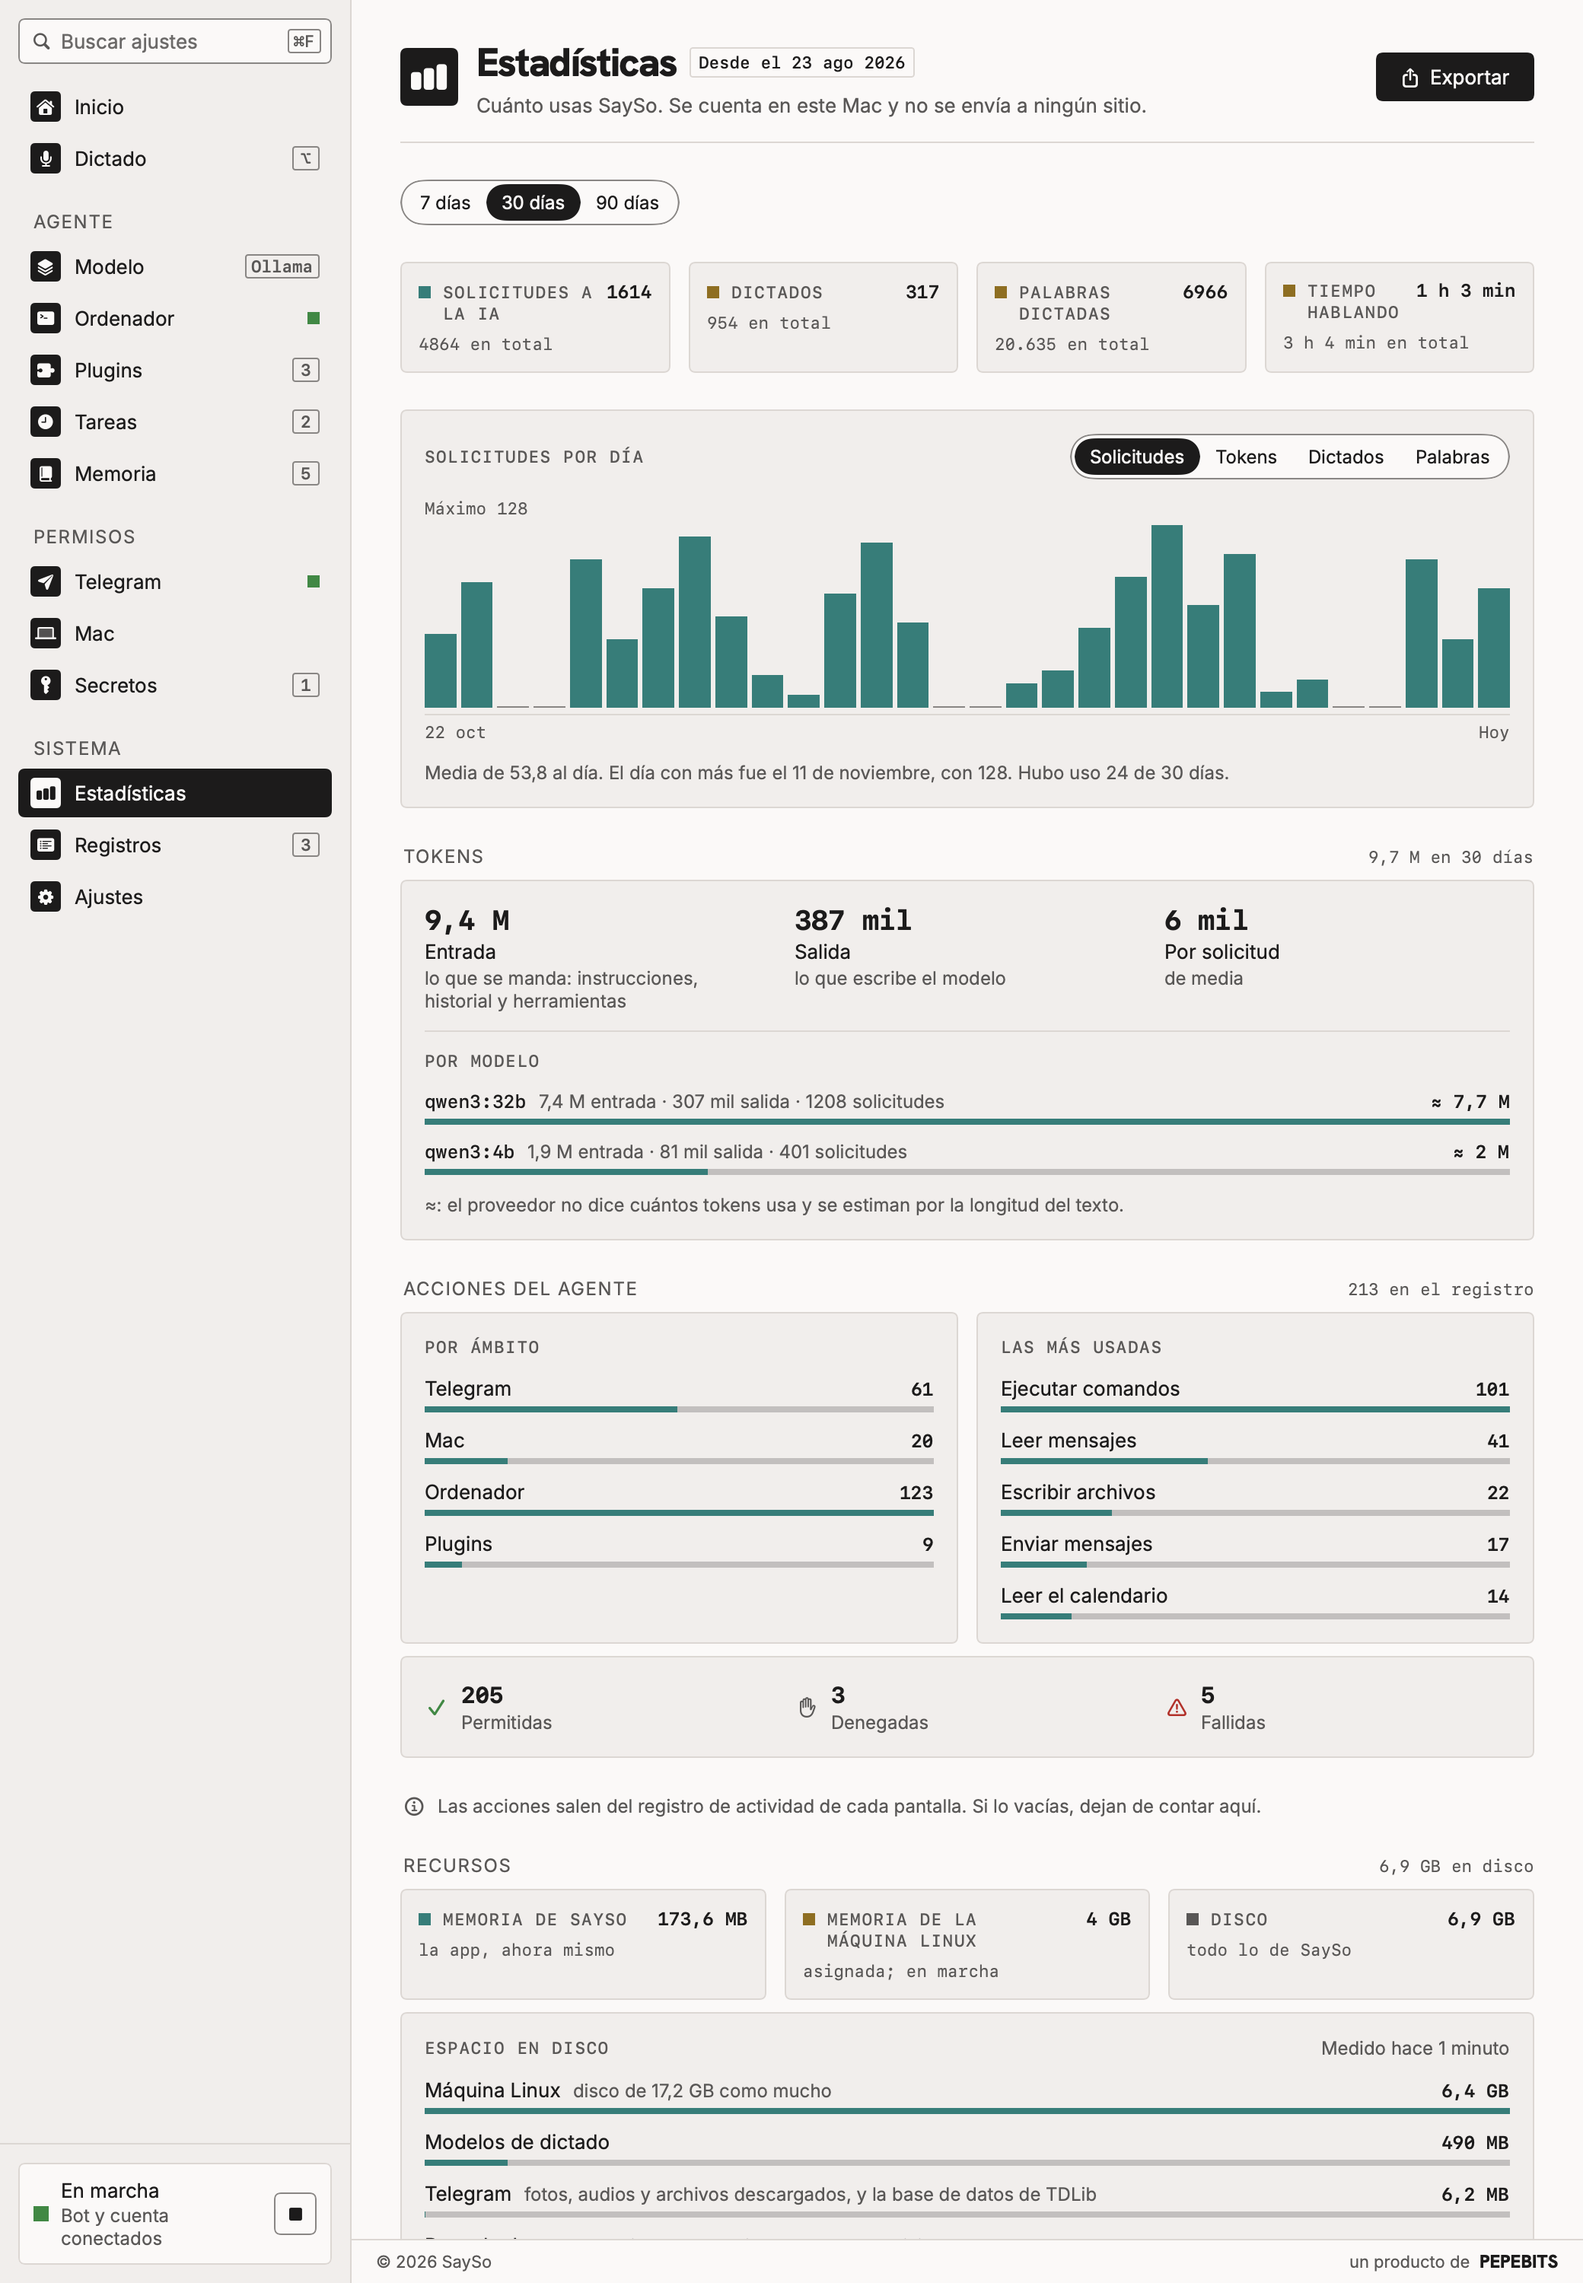
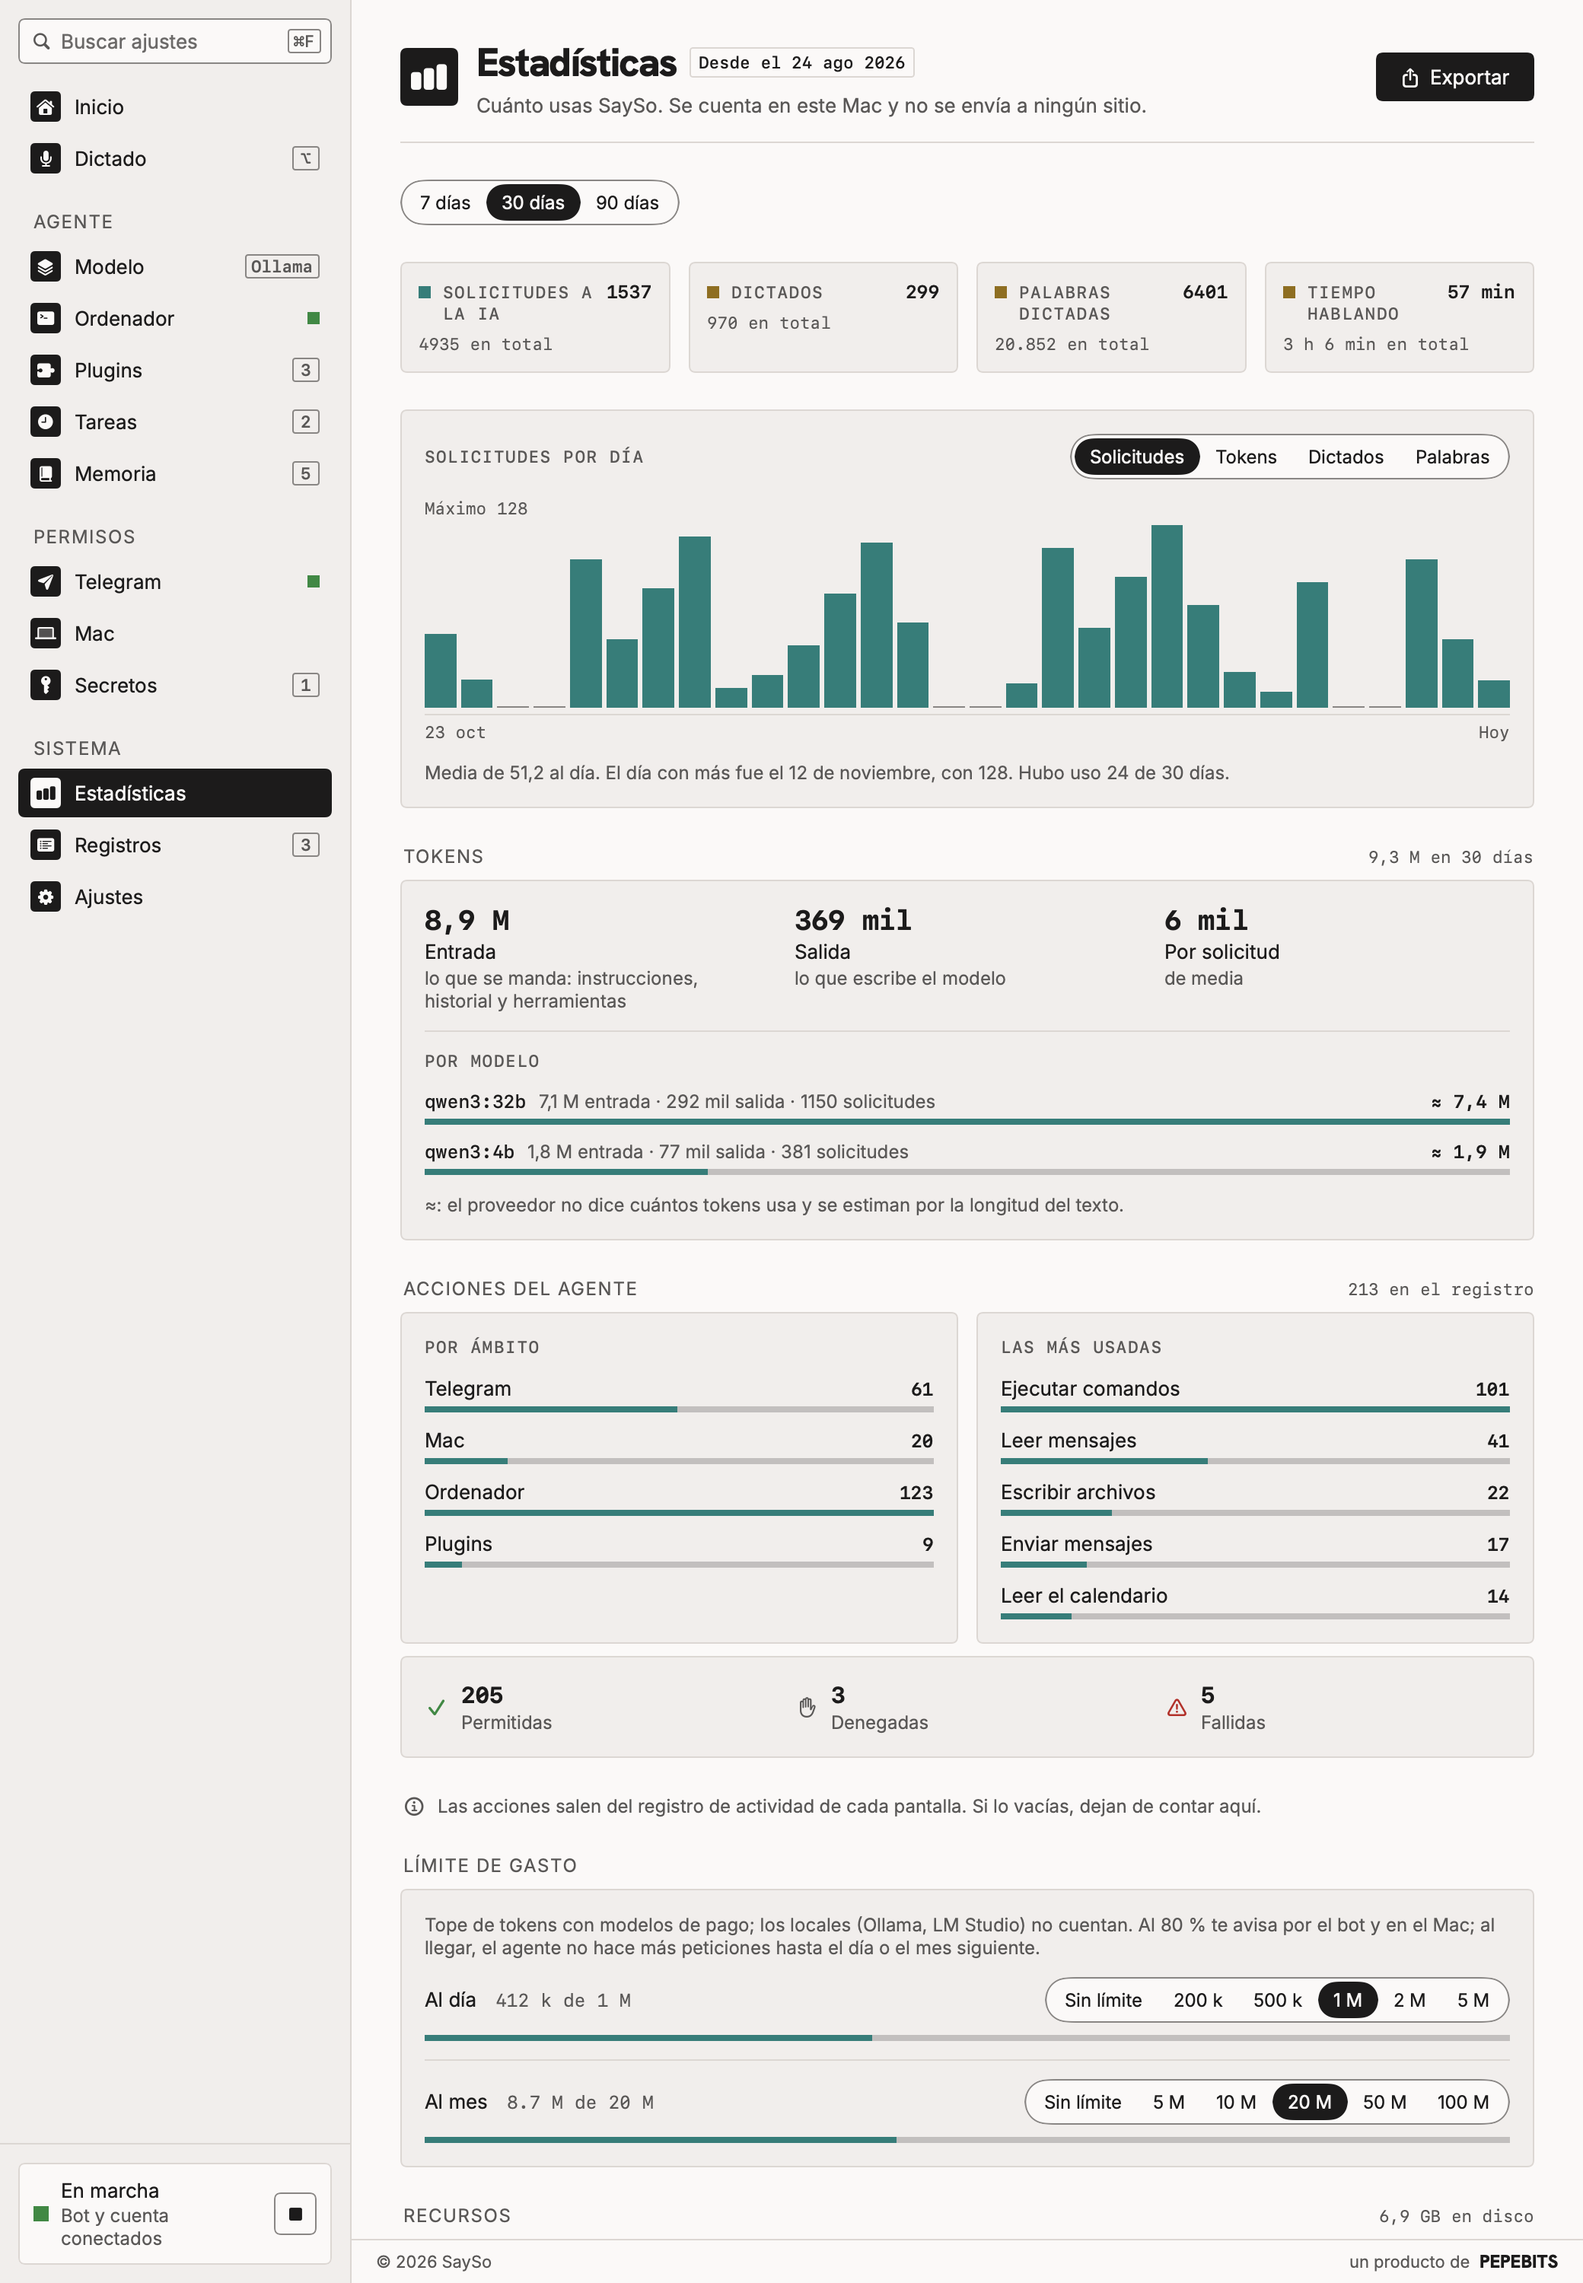
docs: describe the new features and refresh the screenshots
The READMEs mention the dictation dictionary, approving from the bot, message
alerts, token limits and automatic updates. Sample data now fills the new
Dictionary and Spending limit panels, and the spend uses the same units as the
limits.

diff --git a/Sources/SaySoUI/Previews.swift b/Sources/SaySoUI/Previews.swift
@@ -239,6 +239,11 @@ enum PreviewData {
         m.transcriberStatus = "Listo"
         m.requestsWeek = [40, 62, 31, 88, 70, 95, 122]
         m.stats = sampleStats()
+        m.dictation.vocabulary = ["Pepebits", "SaySo", "TestFlight", "Anna"]
+        m.dictation.replacements = [TextReplacement(from: "arroba", to: "@"),
+                                    TextReplacement(from: "mi firma", to: "Un saludo, Ana")]
+        m.tokenLimits = TokenLimits(daily: 1_000_000, monthly: 20_000_000)
+        m.tokenSpend = TokenSpend(today: 412_000, month: 8_700_000)
         m.resources = ResourceUsage(disk: [
             .init(id: "vm", title: "Máquina Linux", bytes: 6_400_000_000, detail: "disco de 17,2 GB como mucho"),
             .init(id: "models", title: "Modelos de dictado", bytes: 490_000_000),

diff --git a/Sources/SaySoUI/StatsScreen.swift b/Sources/SaySoUI/StatsScreen.swift
@@ -161,7 +161,7 @@ struct StatsScreen: View {
         VStack(alignment: .leading, spacing: Theme.Space.s) {
             HStack(alignment: .firstTextBaseline, spacing: Theme.Space.m) {
                 Text(tr(title)).font(Theme.bodyStrong).foregroundStyle(Theme.ink)
-                Text(limit.map { tr("%@ de %@", Self.compact(used), TokenLimits.short($0)) } ?? tr("%@ gastados", Self.compact(used)))
+                Text(limit.map { tr("%@ de %@", TokenLimits.short(used), TokenLimits.short($0)) } ?? tr("%@ gastados", TokenLimits.short(used)))
                     .font(Theme.mono(12)).foregroundStyle(Theme.secondary)
                 Spacer(minLength: Theme.Space.s)
                 BlockSegmented(tr("Límite %@", tr(title).lowercased()),

diff --git a/README.es.md b/README.es.md
@@ -7,14 +7,15 @@ tecla y habla: un agente de IA te responde en pantalla, escribe en tus chats de 
 programa tareas y ejecuta comandos en una máquina Linux propia, lejos de tus archivos. Todo lo
 que sale del Mac pasa por las reglas que tú pones, y te pregunta antes cuando así lo quieres.
 
-- 🎙 **Dictado en tu Mac**: mantén ⌥, o el atajo que elijas, y Whisper transcribe en local; o mantén una conversación hablada con el agente
-- 💬 **Telegram, de dos formas**: habla con el agente desde tu propio bot y, si quieres, deja que lea, busque, responda, reenvíe y envíe desde tu cuenta, notas de voz y archivos incluidos
+- 🎙 **Dictado en tu Mac**: mantén ⌥, o el atajo que elijas, y Whisper transcribe en local; o mantén una conversación hablada con el agente. Un diccionario personal escribe los nombres y las marcas como tú quieres
+- 💬 **Telegram, de dos formas**: habla con el agente desde tu propio bot y, si quieres, deja que lea, busque, responda, reenvíe y envíe desde tu cuenta, notas de voz y archivos incluidos. Aprueba sus acciones desde el bot cuando no estás en el Mac
 - 🐧 **Su propia máquina Linux**, aislada con Virtualization.framework, para ejecutar comandos, instalar herramientas, navegar por la web y transcribir audio
-- ⏰ **Tareas programadas** para ti o para otras personas, con varios destinatarios y la opción de enviar sin preguntar
+- ⏰ **Tareas programadas** para ti o para otras personas, con varios destinatarios y la opción de enviar sin preguntar, y avisos cuando alguien escribe
 - 🧠 **Memoria que puedes editar**: notas marcadas como instrucciones o datos, que se aplican en cada conversación
 - 🧩 **Plugins** sobre MCP, y complementos que se ejecutan dentro de la máquina Linux
 - 🛡 **Permisos y protecciones**: Permitir, Preguntar o Nunca para cada acción, secretos en el Llavero y ocultos antes de llegar al modelo, y una segunda revisión de las acciones hacia fuera cuando el agente ha leído contenido de otros
-- 🔌 **El modelo que quieras**: Claude, OpenAI, OpenRouter, Grok, o uno local con Ollama o LM Studio
+- 🔌 **El modelo que quieras**: Claude, OpenAI, OpenRouter, Grok, o uno local con Ollama o LM Studio, con un límite de tokens diario y mensual para los de pago
+- 🔄 **Se actualiza solo**: busca versiones nuevas una vez al día y las instala cuando tú dices
 - 🌍 En español, inglés, gallego, francés y portugués
 
 <p align="center">

diff --git a/README.md b/README.md
@@ -7,14 +7,15 @@ speak: an AI agent answers on screen, writes in your Telegram chats, schedules t
 commands in a Linux machine of its own, away from your files. Anything that leaves your Mac
 goes through rules you set, and asks you first when you want it to.
 
-- 🎙 **Dictation on your Mac**: hold ⌥, or a shortcut of your choice, and Whisper transcribes locally; or keep a spoken conversation going with the agent
-- 💬 **Telegram, two ways**: talk to the agent through your own bot, and if you want, let it read, search, reply, forward and send from your account, voice notes and media included
+- 🎙 **Dictation on your Mac**: hold ⌥, or a shortcut of your choice, and Whisper transcribes locally; or keep a spoken conversation going with the agent. A personal dictionary keeps names and brands spelled your way
+- 💬 **Telegram, two ways**: talk to the agent through your own bot, and if you want, let it read, search, reply, forward and send from your account, voice notes and media included. Approve its actions from the bot when you are away from the Mac
 - 🐧 **Its own Linux machine**, isolated with Virtualization.framework, to run commands, install tools, browse the web and transcribe audio
-- ⏰ **Scheduled tasks** for you or for other people, with several recipients and an option to send without asking
+- ⏰ **Scheduled tasks** for you or for other people, with several recipients and an option to send without asking, plus alerts when someone writes
 - 🧠 **Memory you can edit**: notes marked as instructions or facts, applied in every conversation
 - 🧩 **Plugins** over MCP, plus add-ons that run inside the Linux machine
 - 🛡 **Permissions and guardrails**: Allow, Ask or Never for each action, secrets kept in the Keychain and redacted before they reach the model, and a second check on outward actions after the agent has read someone else's content
-- 🔌 **Bring your own model**: Claude, OpenAI, OpenRouter, Grok, or a local one with Ollama or LM Studio
+- 🔌 **Bring your own model**: Claude, OpenAI, OpenRouter, Grok, or a local one with Ollama or LM Studio, with a daily and monthly token limit for paid ones
+- 🔄 **Updates itself**: new versions are checked once a day and installed when you say so
 - 🌍 In Spanish, English, Galician, French and Portuguese
 
 <p align="center">
